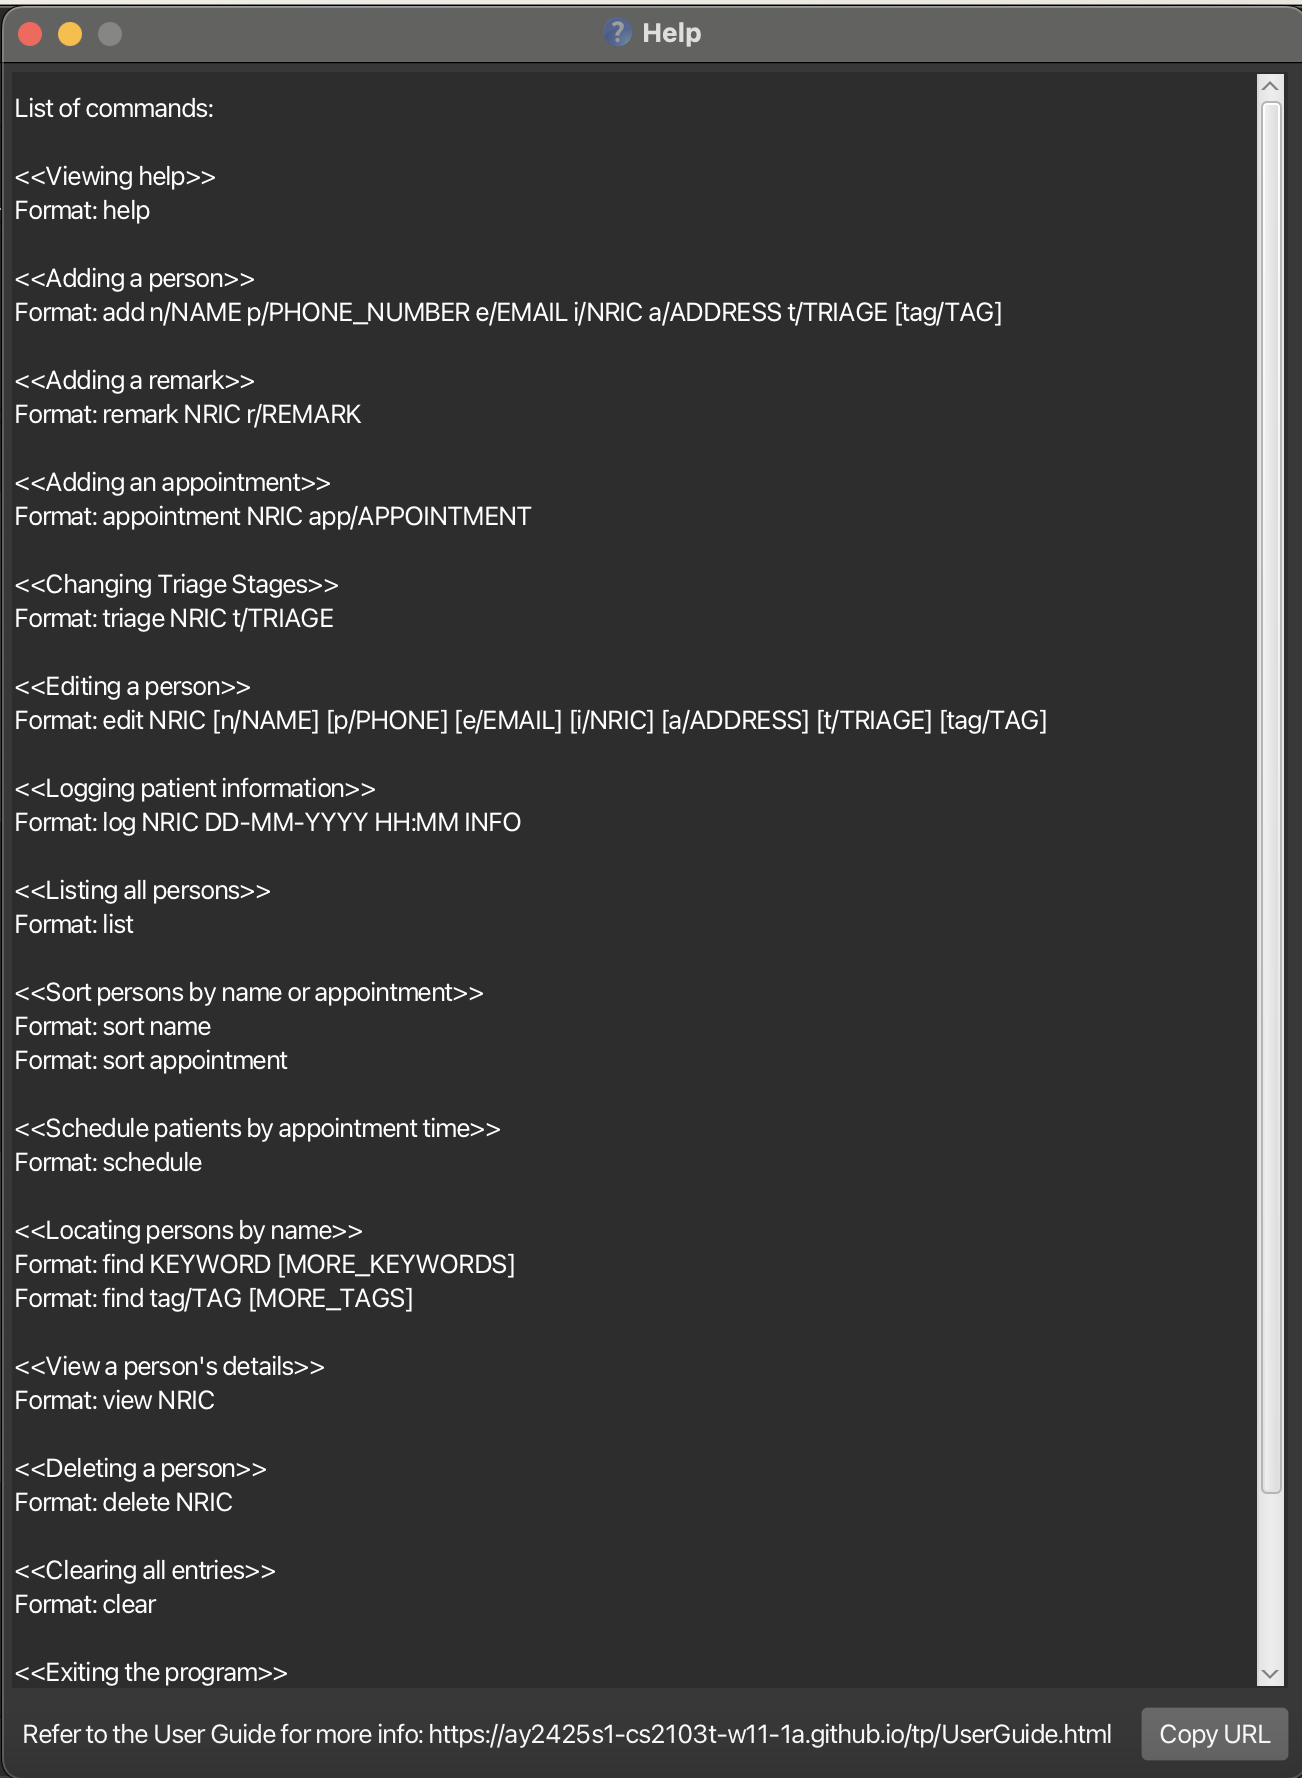
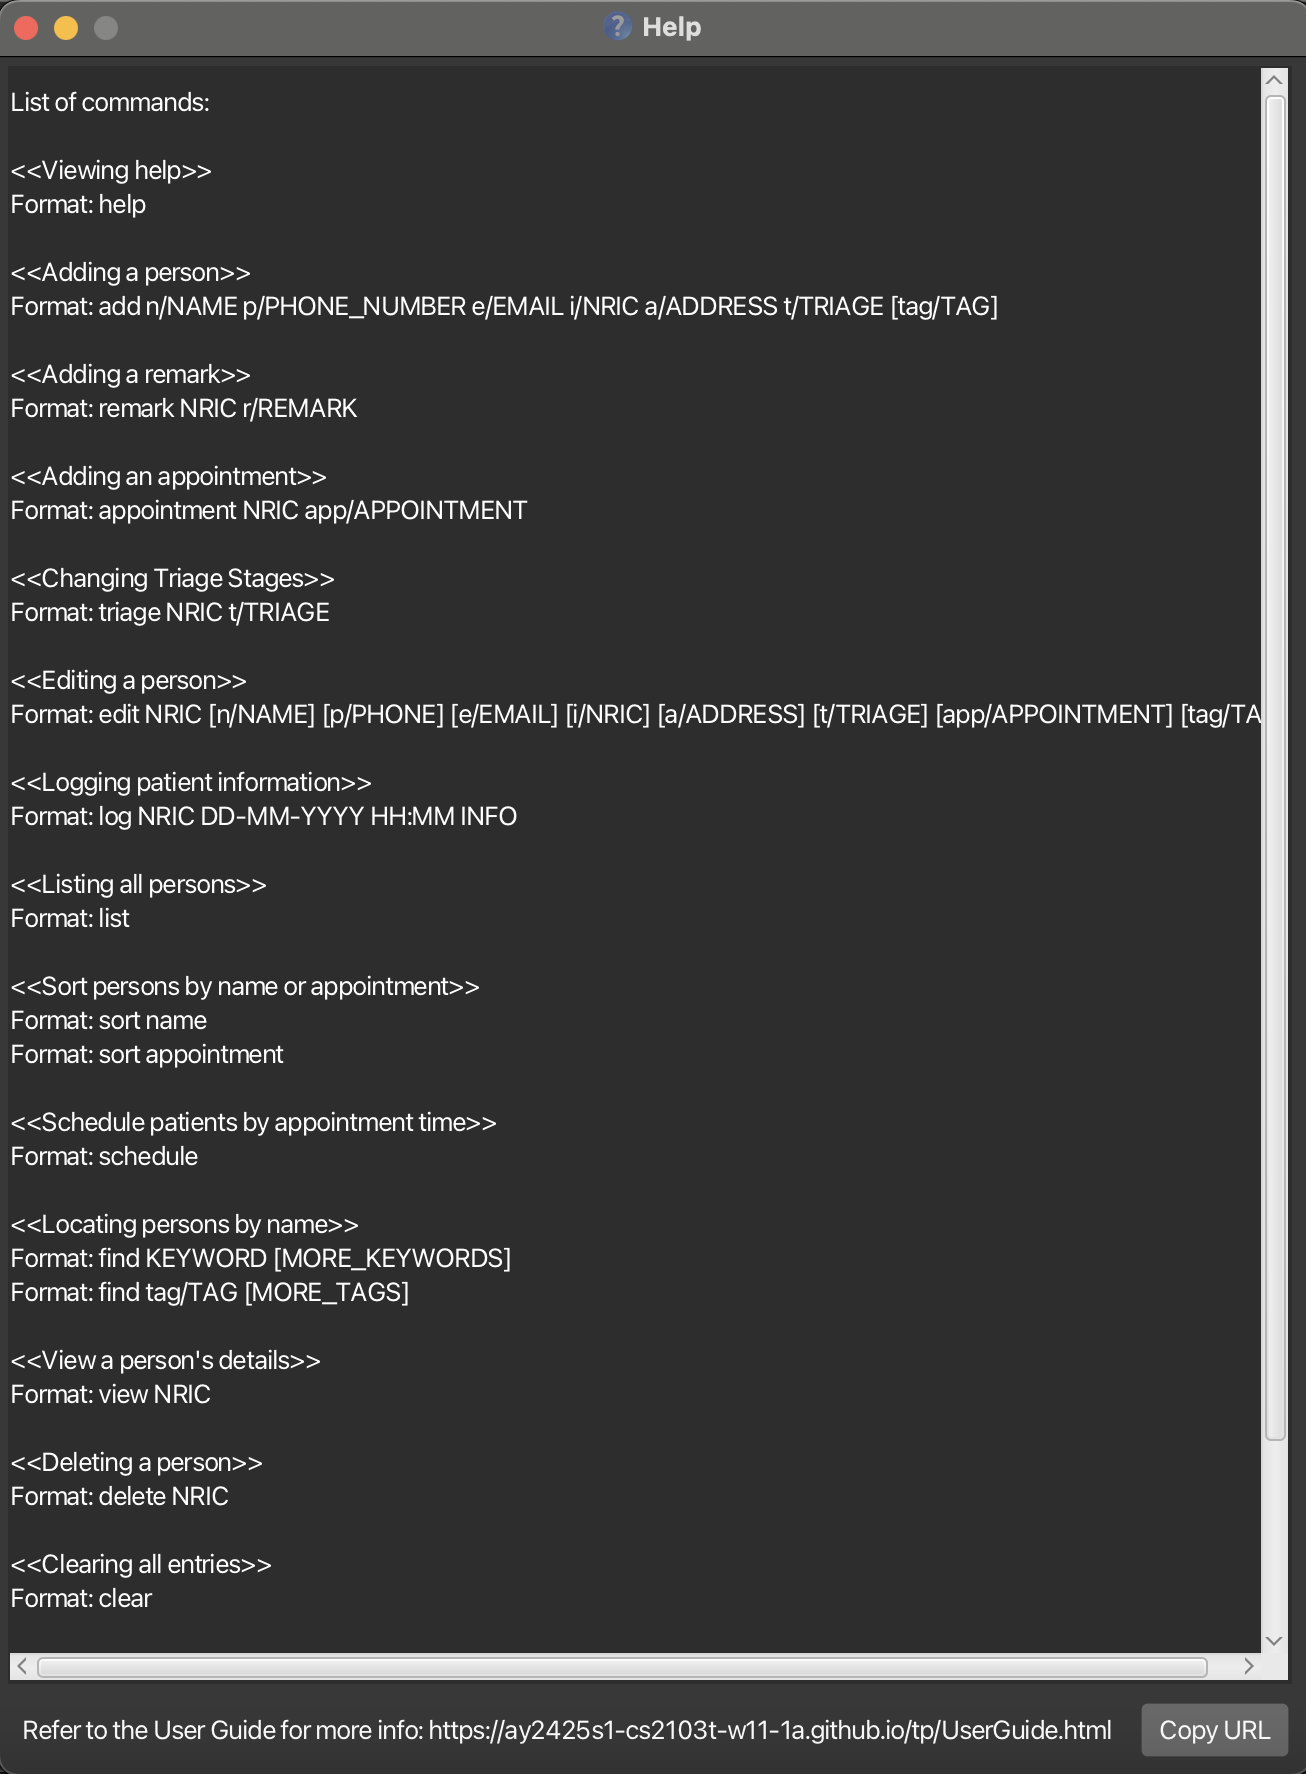
Update UG with workarounds for bug fixes

diff --git a/src/main/java/seedu/address/logic/commands/EditCommand.java b/src/main/java/seedu/address/logic/commands/EditCommand.java
@@ -67,7 +67,6 @@ public class EditCommand extends Command {
     public static final String MESSAGE_NOT_EDITED = "At least one field to edit must be provided.";
     public static final String MESSAGE_DUPLICATE_PERSON = "This person already exists in the address book.";
 
-    //private final Index index;
     private final Nric nric;
     private final EditPersonDescriptor editPersonDescriptor;
 
@@ -192,7 +191,7 @@ public class EditCommand extends Command {
          * Returns true if at least one field is edited.
          */
         public boolean isAnyFieldEdited() {
-            return CollectionUtil.isAnyNonNull(name, phone, email, nric, address, tags, appointment);
+            return CollectionUtil.isAnyNonNull(name, phone, email, nric, address, triage, tags, appointment);
         }
 
         public void setName(Name name) {

diff --git a/src/main/java/seedu/address/logic/commands/TriageCommand.java b/src/main/java/seedu/address/logic/commands/TriageCommand.java
@@ -25,7 +25,7 @@ public class TriageCommand extends Command {
     public static final String MESSAGE_USAGE = COMMAND_WORD + ": Triage patient using numbers 1 to 5. "
             + "Based on Phase of Illness Model -> 1: Stable, 2: Unstable, 3: Deteriorating, 4: Terminal, 5: Bereaved.\n"
             + "Parameters: NRIC "
-            + PREFIX_TRIAGE + "[TRIAGE]\n"
+            + PREFIX_TRIAGE + "TRIAGE\n"
             + "Example: " + COMMAND_WORD + " S1234567A "
             + PREFIX_TRIAGE + "3";
 

diff --git a/docs/UserGuide.md b/docs/UserGuide.md
@@ -24,9 +24,11 @@ If you can type fast, Murphy's List can get your healthcare administrative tasks
     13. [Deleting patient profile](#deleting-a-patient-profile--delete)
     14. [Clear all entries](#clearing-all-entries--clear)
     15. [Exiting the program](#exiting-the-program--exit)
+    16. [Appointment Popup](#appointment-popup-on-start-up)
 3. [FAQ](#faq)
 4. [Known Issues](#known-issues)
 5. [Command Summary](#command-summary)
+6. [Command Shortcuts](#command-shortcuts-table)
 
 --------------------------------------------------------------------------------------------------------------------
 
@@ -84,7 +86,12 @@ If you can type fast, Murphy's List can get your healthcare administrative tasks
     e.g. if the command specifies `help 123`, it will be interpreted as `help`.
 
 * If you are using a PDF version of this document, be careful when copying and pasting commands that span multiple lines as space characters surrounding line-breaks may be omitted when copied over to the application.
+
+<div markdown="span" class="alert alert-warning">:exclamation: **Caution:**  
+Murphy's List does not support whitespaces in **tags**; each tag must be a single alphanumeric word.<br>  
+Murphy's List also does not automatically check for invalid email formats, so please take caution when adding/editing patient information. *(Email validation will be included in a future release.)*
 </div>
+
 
 ### Viewing help : `help`
 
@@ -108,18 +115,18 @@ Examples:
 * `add n/John Doe p/98765432 e/johnd@example.com i/S1234123A a/John Street, Block 123, #01-01 t/2`
 * `add n/Betsy Crowe p/24681357 e/betsycrowe@example.com i/T1234567D a/Clementi Ave 1, Block 230 t/1 tag/Diabetic tag/G6PD`
 
+> **Note:** `add` **does not support** the addition of appointments. Use the [appointment](#adding-an-appointment--appointment) command to do so.
+
 ### Adding a remark to a patient profile : `remark`
 
 Adds a remark to a specified patient profile.
-> 💡 **Note:** You can only specify **one** remark to add
+> **Note:** You can only specify **one** remark to add, and patients can only have one remark.
 
 Format: `remark NRIC r/REMARK`
 
 Examples:
 * `remark S1234567A r/allergic to dogs`
 * `remark T1231231D r/keep away from flashing lights`
-
-Note: Patients can only have one remark.
 
 ### Adding an appointment : `appointment`
 
@@ -130,7 +137,7 @@ Format: `appointment NRIC app/DD-MM-YYYY HH:MM`
 * If the patient already has an appointment, the new appointment will overwrite the existing one.
 * Invalid dates and times (eg. 30th February, 24:59) will not be accepted.
 
-Note: Patients can only have one appointment at any one time.
+> **Note:** Patients can only have one appointment at any one time.
 
 ### Changing Triage Stage : `triage`
 
@@ -156,9 +163,9 @@ Example:
 
 ### Editing a patient profile : `edit`
 
-Edits the details of the patient identified by the index number used in the displayed patient profile list. **Existing information will be overwritten by the input values.**
+Edits the details of the patient identified by their NRIC. **Existing information will be overwritten by the input values.**
 
-Format: `edit NRIC [n/NAME] [p/PHONE] [e/EMAIL] [i/NRIC] [a/ADDRESS] [t/TRIAGE] [tag/TAG]…`
+Format: `edit NRIC [n/NAME] [p/PHONE] [e/EMAIL] [i/NRIC] [a/ADDRESS] [t/TRIAGE] [app/APPOINTMENT] [tag/TAG]…`
 
 * Edits the patient profile with the specified `NRIC`.
 * At least one of the optional fields must be provided.
@@ -189,14 +196,12 @@ Sorts the list of patients based on the specified criteria.
 
 Format: `sort [name | appointment]`
 
+* If the list is already sorted by the specified criteria, the command will maintain the current order.
+* Sorting by `appointment` will only consider patients with scheduled appointments. Patients without appointments will appear at the end of the list.
+
 Examples:
 * `sort name` sorts the list of patients in alphabetical order by their names.
 * `sort appointment` sorts the list of patients by their upcoming appointment dates in chronological order.
-
-#### Notes
-- If the list is already sorted by the specified criteria, the command will maintain the current order.
-- Sorting by `appointment` will only consider patients with scheduled appointments. Patients without appointments will appear at the end of the list.
-
 
 ### Locating patients by name: `find`
 
@@ -216,6 +221,8 @@ Format: `find KEYWORD [MORE_KEYWORDS]`
 Examples:
 * `find John` returns `john` and `John Doe`
 * `find alex david` returns `Alex Yeoh`, `David Li`<br>
+
+
   ![result for 'find alex david'](images/searchResult.png)
 
 #### To search by **tags**:
@@ -231,6 +238,7 @@ Examples:
 - `find tag/diabetic` finds all people with the "diabetic" tag.
 - `find tag/diabetic hypertensive` finds all people with either the "diabetic" or "hypertensive" tags.
 
+> **Note**: `find` will only search for either names or tags but not both at the same time.
 
 ### Logging patient information : `log`
 
@@ -249,11 +257,13 @@ Examples:
 
 ### Viewing patient information : `view`
 
-* Views full information of the patient with the specified `NRIC` not displayed on the Main Window (eg. Patient logs).
+* Views full information of the patient with the specified `NRIC` not displayed on the Main Window (e.g., Patient logs).
 
-Format: `view NRIC`
+**Format:** `view NRIC`
 
 ![view page](images/ViewWindow.png)
+
+> **Note:** The view window will not automatically update after editing the patient's information unless you close the window and call the `view` command again. Additionally, it will not close automatically if you delete the patient.
 
 ### Deleting a patient profile : `delete`
 
@@ -277,6 +287,19 @@ Format: `clear`
 Exits the program.
 
 Format: `exit`
+
+### Command Shortcuts
+
+For quick access, here is a [table of command shortcuts](#command-shortcuts-table) summarizing the command formats.
+
+### Appointment Popup on Start-Up
+
+On application start-up, if a patient has an appointment scheduled for the current day, a popup window will appear to notify you of the upcoming appointment(s).
+
+![appointment popup](images/AppointmentPopup.png)
+
+This popup will only display once at start-up and will not reappear unless the application is restarted with a patient having an appointment on the current day.
+
 
 ### Saving the data
 
@@ -306,6 +329,7 @@ _Details coming soon ..._
 You can check your Java version by running `java -version` in the command terminal.
 **Q**: How do I recover data if I accidentally delete a patient profile?
 **A**: Unfortunately, there is no built-in undo feature for deleted data. It is recommended to back up your data by making a copy of the data file periodically.
+
 --------------------------------------------------------------------------------------------------------------------
 
 ## Known issues
@@ -325,7 +349,7 @@ You can check your Java version by running `java -version` in the command termin
 | **Change Triage**   | `triage NRIC t/TRIAGE` <br> e.g., `triage S1234567A t/1`                                                                                                                                                       |
 | **Clear**           | `clear`                                                                                                                                                                                                        |
 | **Delete**          | `delete NRIC`<br> e.g., `delete S1234567A`                                                                                                                                                                     |
-| **Edit**            | `edit NRIC [n/NAME] [p/PHONE] [e/EMAIL] [i/NRIC] [a/ADDRESS] [t/TRIAGE] [tag/TAG]…`<br> e.g.,`edit S1234567A n/James Lee e/jameslee@example.com`                                                              |
+| **Edit**            | `edit NRIC [n/NAME] [p/PHONE] [e/EMAIL] [i/NRIC] [a/ADDRESS] [t/TRIAGE] [app/APPOINTMENT] [tag/TAG]…`<br> e.g.,`edit S1234567A n/James Lee e/jameslee@example.com`                                            |
 | **Find**            | `find KEYWORD [MORE_KEYWORDS]`<br> e.g., `find James Jake`<br/> `find tag/TAG [MORE_TAGS]` <br> e.g., `find tag/diabetic`                                                                                      |
 | **List**            | `list`                                                                                                                                                                                                         |
 | **Log**             | `log NRIC DD-MM-YYYY HH:MM INFO(non-empty)` <br> e.g., `log S1234567A 25-12-2024 14:30 Patient has been discharged`                                                                                            |                                             |
@@ -334,3 +358,23 @@ You can check your Java version by running `java -version` in the command termin
 | **View**            | `view NRIC`<br> e.g `view S1234567A`                                                                                                                                                                           |
 | **Help**            | `help`                                                                                                                                                                                                         |
 | **Exit**            | `exit`                                                                                                                                                                                                         |
+
+## Command Shortcuts Table
+
+| Command       | Shortcut | Description                              |
+|---------------|----------|------------------------------------------|
+| `add`         | `a`      | Adds a patient profile to the database   |
+| `appointment` | `appt`   | Adds an appointment to a patient profile |
+| `clear`       | `c`      | Clears all entries from the database     |
+| `delete`      | `d`      | Deletes a specified patient profile      |
+| `edit`        | `ed`     | Edits details of a patient profile       |
+| `exit`        | `ex`     | Exits the application                    |
+| `find`        | `f`      | Finds patients by name or tags           |
+| `help`        | `h`      | Displays a list of accepted commands     |
+| `list`        | `ls`     | Shows a list of all patient profiles     |
+| `remark`      | `r`      | Add a remark to a patient profile        |
+| `sort`        | `s`      | Sorts the list of patients               |
+| `triage`      | `t`      | Change triage stage of a patient         |
+| `view`        | `v`      | Views detailed patient information       |
+
+> **Note:** Shortcuts for `log`and `schedule` are not included but will be available in a future update.
